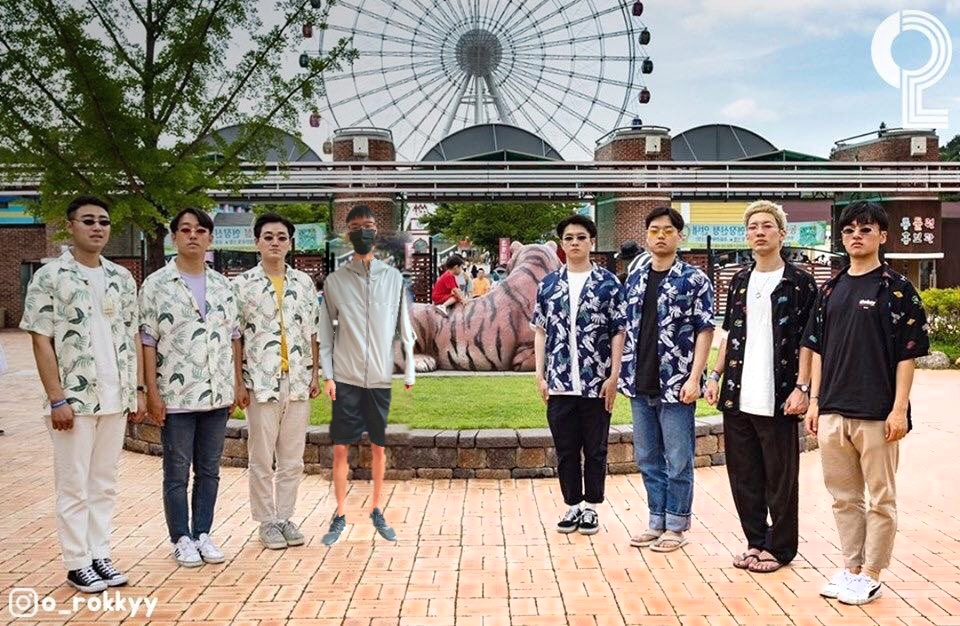
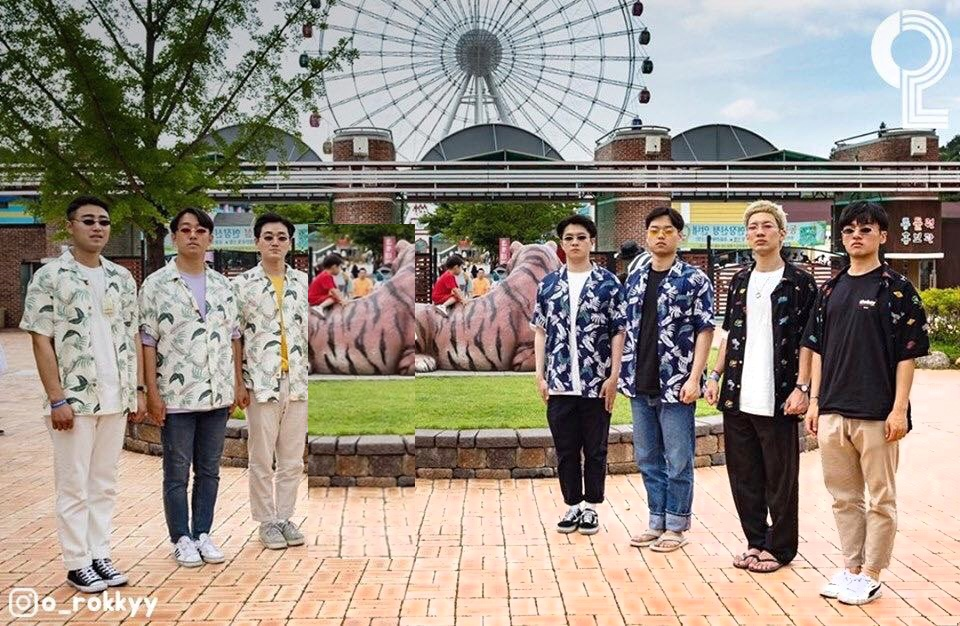
update seamlessclone option

Changed region(s): [[0.3125, 0.3339, 0.4375, 0.9105]]

diff --git a/test_ui.py b/test_ui.py
@@ -1260,12 +1260,19 @@ class MainWindow(QMainWindow):
 
                 self.save_state() # Save Undo state right before modifying
                 
-                # Apply Clone (Only once)
-                self.bg_img_orig = cv2.seamlessClone(
-                    src_patch, self.bg_img_orig, mask, center, cv2.NORMAL_CLONE
-                )
+                # test direct copy and seamlessClone
+                use_seamless = True
 
-                print("Patch Applied Successfully.")
+                if use_seamless:
+                    # Apply Clone (Only once)
+                    self.bg_img_orig = cv2.seamlessClone(
+                        src_patch, self.bg_img_orig, mask, center, cv2.NORMAL_CLONE
+                    )
+
+                    print("Patch Applied Successfully.")
+                else:
+                    self.bg_img_orig[ty:ty+th, tx:tx+tw] = src_patch
+                    print("Direct Patch Applied Successfully.")
 
                 # Reset State
                 self.patch_target = None
@@ -1276,6 +1283,75 @@ class MainWindow(QMainWindow):
 
             except cv2.error as e:
                 print(f"Clone Error: {e}")
+
+    # def apply_patch(self):
+    #     # Verify we are in the correct step and have an image
+    #     if self.patch_step == 2 and self.bg_img_orig is not None:
+            
+    #         # Get Image Dimensions
+    #         h_img, w_img = self.bg_img_orig.shape[:2]
+
+    #         # --- HELPER: CLAMP RECT TO IMAGE BOUNDS ---
+    #         def get_safe_coords(qrect):
+    #             x, y = int(qrect.x()), int(qrect.y())
+    #             w, h = int(qrect.width()), int(qrect.height())
+                
+    #             # 1. Clamp Top-Left
+    #             x = max(0, min(x, w_img - 1))
+    #             y = max(0, min(y, h_img - 1))
+                
+    #             # 2. Clamp Size
+    #             w = min(w, w_img - x)
+    #             h = min(h, h_img - y)
+                
+    #             # 3. Safety shrink for edge cases
+    #             if x + w >= w_img: w -= 1
+    #             if y + h >= h_img: h -= 1
+    #             if x == 0: x += 1; w -= 1
+    #             if y == 0: y += 1; h -= 1
+                
+    #             return x, y, w, h
+
+    #         # 1. Get Safe Coordinates
+    #         tx, ty, tw, th = get_safe_coords(self.patch_target)
+    #         sx, sy, sw, sh = get_safe_coords(self.patch_source)
+            
+    #         # 2. Check dimensions
+    #         if tw <= 1 or th <= 1 or sw <= 1 or sh <= 1:
+    #             print("Error: Selection too small or too close to edge.")
+    #             return
+
+    #         # 3. Extract Source
+    #         src_patch = self.bg_img_orig[sy:sy+sh, sx:sx+sw]
+            
+    #         try:
+    #             # 4. Resize Source
+    #             src_patch = cv2.resize(src_patch, (tw, th))
+                
+    #             # 5. Create Mask
+    #             mask = 255 * np.ones(src_patch.shape, src_patch.dtype)
+                
+    #             # 6. Calculate Center
+    #             center = (int(tx + tw // 2), int(ty + th // 2))
+
+    #             self.save_state() # Save Undo state right before modifying
+                
+    #             # Apply Clone (Only once)
+    #             self.bg_img_orig = cv2.seamlessClone(
+    #                 src_patch, self.bg_img_orig, mask, center, cv2.NORMAL_CLONE
+    #             )
+
+    #             print("Patch Applied Successfully.")
+
+    #             # Reset State
+    #             self.patch_target = None
+    #             self.patch_source = None
+    #             self.patch_step = 0
+    #             self.lbl_patch.setText("Step: Draw Target Box")
+    #             self.process_composition()
+
+    #         except cv2.error as e:
+    #             print(f"Clone Error: {e}")
 
     # ==========================
     # LOGIC: COMPOSITING

diff --git a/HSV_comversion.py b/HSV_comversion.py
@@ -2,7 +2,7 @@ import cv2
 import matplotlib.pyplot as plt
 
 # 1. Load the image
-img_bgr = cv2.imread('result.jpg')
+img_bgr = cv2.imread('result.png')
 
 # 2. Convert from BGR to HSV
 img_hsv = cv2.cvtColor(img_bgr, cv2.COLOR_BGR2HSV)
